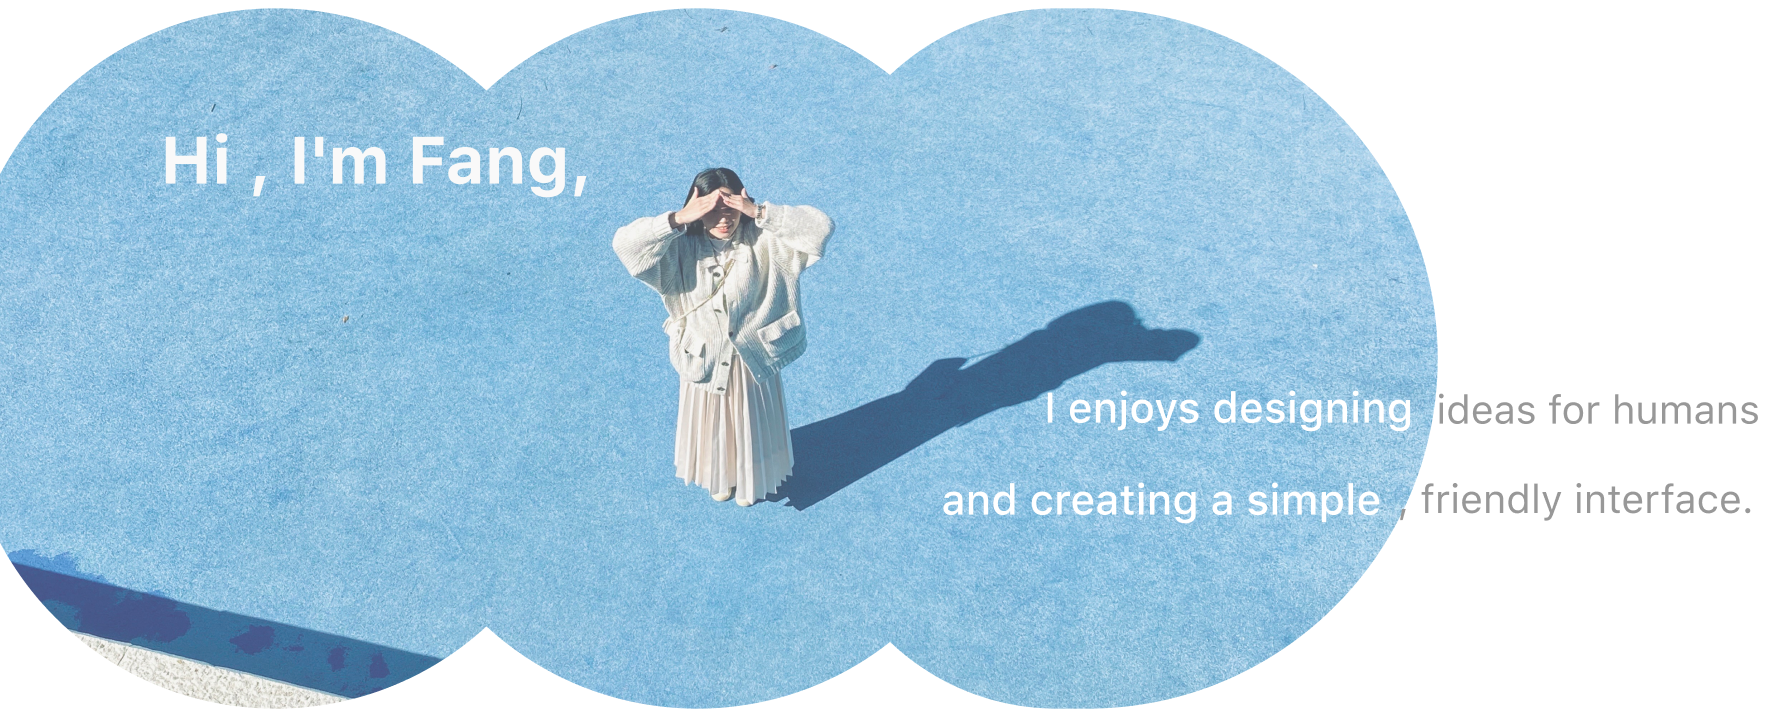
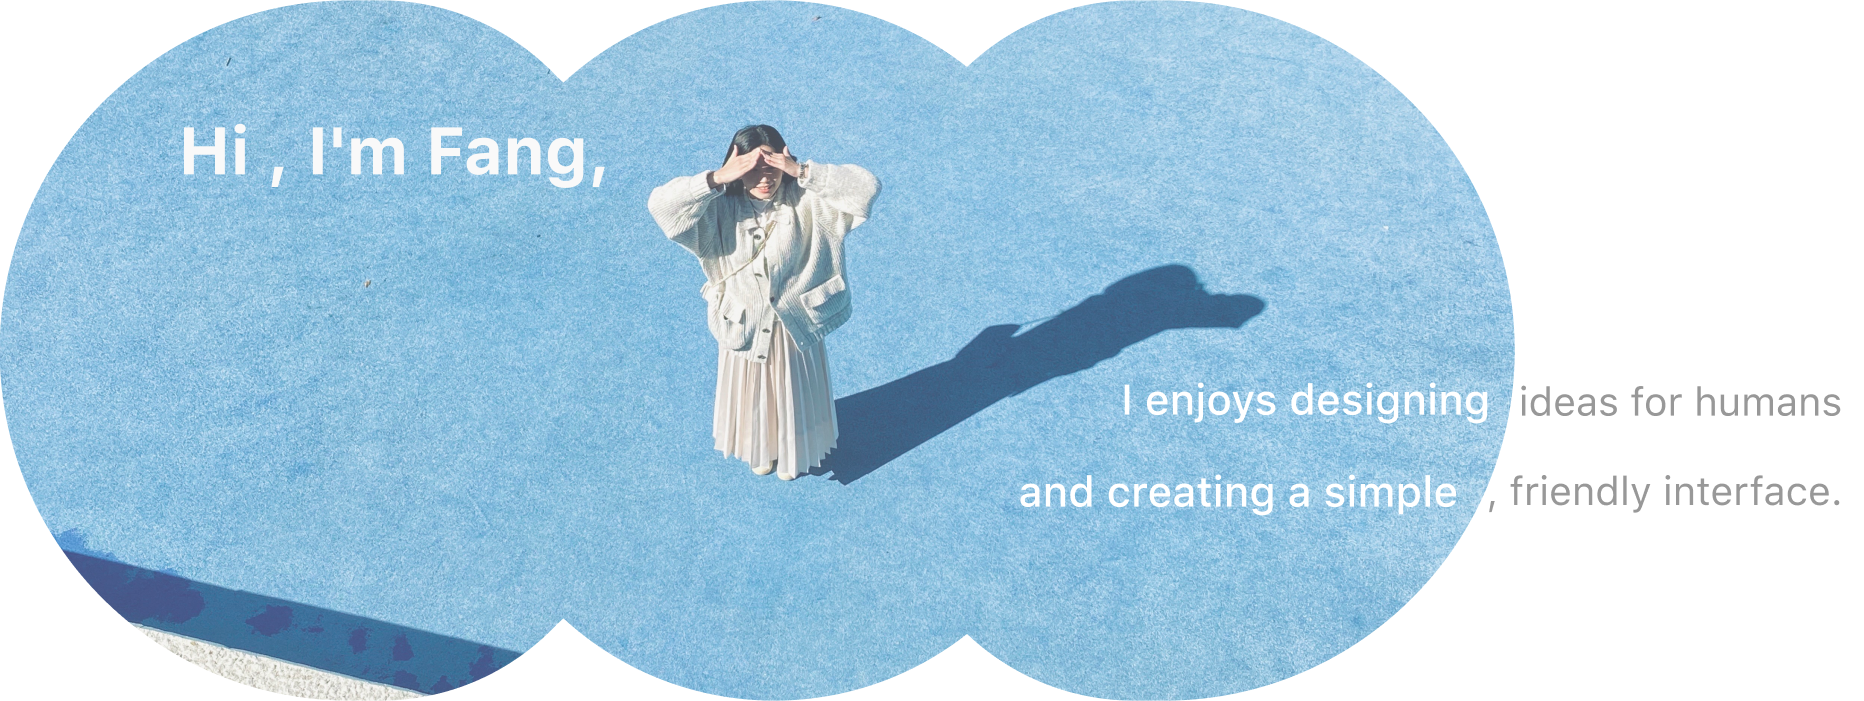
更換圖片-2024-04-17

Changed region(s): [[0.0, 0.0, 0.9955, 1.0]]

diff --git a/src/pages/afterHour/index.vue b/src/pages/afterHour/index.vue
@@ -30,14 +30,16 @@ export default defineComponent({
   position: relative;
   .img {
     width: 100%;
-    position: relative;
+    position: absolute;
     margin-top: 7vw;
     @include rwd.large {
       max-width: 1440px;
+      left: -100px;
       margin-top: 135px;
     }
     @include rwd.medium {
       width: calc(100vw * (1440 / 1920));
+      left: calc(100vw * (-100 / 1920));
     }
   }
 }

diff --git a/src/pages/visualDesign/index.vue b/src/pages/visualDesign/index.vue
@@ -30,14 +30,16 @@ export default defineComponent({
   position: relative;
   .img {
     width: 100%;
-    position: relative;
+    position: absolute;
     margin-top: 7vw;
     @include rwd.large {
       max-width: 1440px;
+      left: -210px;
       margin-top: 135px;
     }
     @include rwd.medium {
       width: calc(100vw * (1440 / 1920));
+      left: calc(100vw * (-210 / 1920));
     }
   }
 }

diff --git a/src/pages/uiux/index.vue b/src/pages/uiux/index.vue
@@ -44,14 +44,16 @@ export default defineComponent({
   position: relative;
   .img {
     width: 100%;
-    position: relative;
+    position: absolute;
     margin-top: 7vw;
     @include rwd.large {
       max-width: 1440px;
+      left: -60px;
       margin-top: 135px;
     }
     @include rwd.medium {
       width: calc(100vw * (1440 / 1920));
+      left: calc(100vw * (-60 / 1920));
     }
   }
 }
